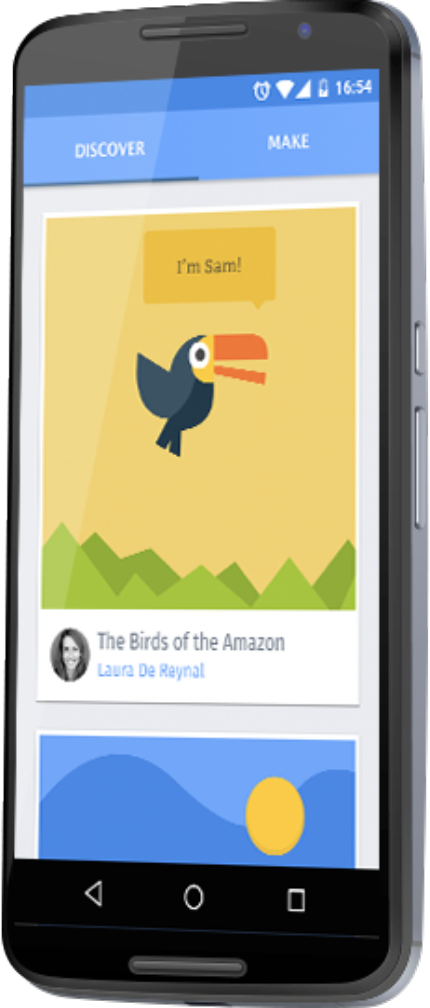
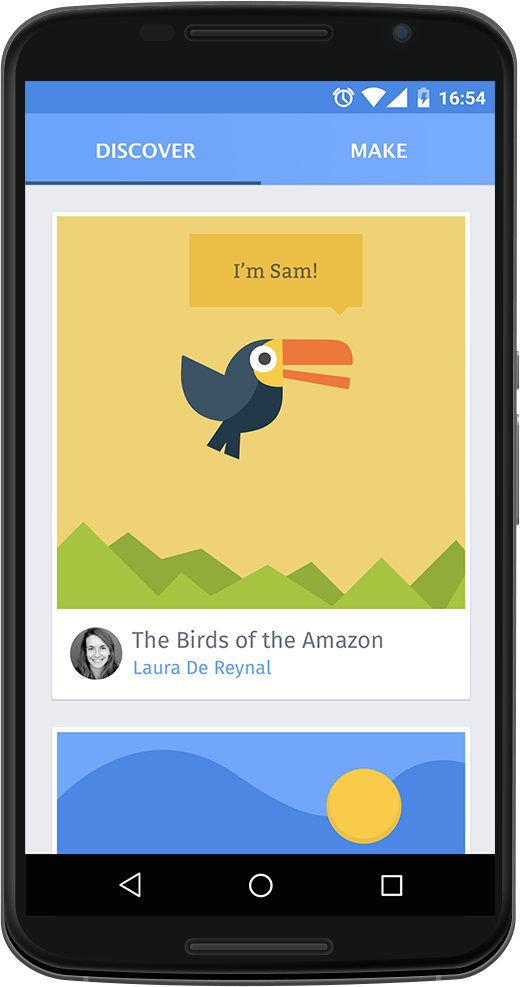
Updating hero image

diff --git a/static/index.html b/static/index.html
@@ -39,7 +39,7 @@
         </div>
 
         <div id="hero">
-          <img src="./images/hero@2x.png" width="195" height="484" alt="" />
+          <img src="./images/hero@2x.png" width="260" alt="The Mozilla Webmaker for Android App" />
         </div>
       </div>
     </div>

diff --git a/static/css/main.css b/static/css/main.css
@@ -147,8 +147,8 @@ a:visited {
 
 #masthead #hero {
   position: absolute;
-  top: 100px;
-  left: calc(100% - 290px);
+  top: 112px;
+  left: calc(100% - 300px);
 }
 
 /**
